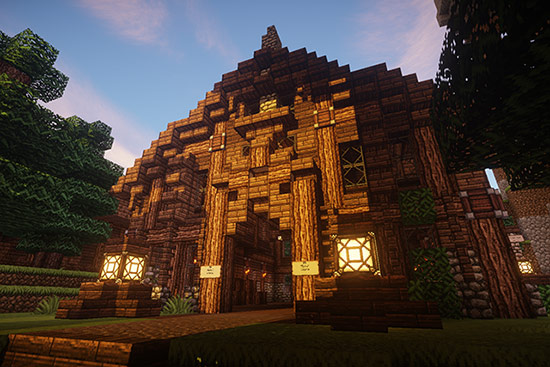
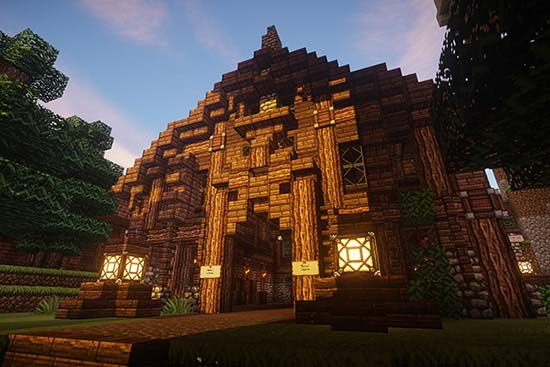
better compress our images

diff --git a/loka/templates/base.html b/loka/templates/base.html
@@ -187,22 +187,6 @@
         });
     </script>
     <script src="{% static 'js/bootstrap.min.js' %}"></script>
-{#    <script defer type="text/javascript">#}
-{#        $(document).ready(function () {#}
-{##}
-{#            if ($("#container").size() > 0) {#}
-{#                if (document.createStyleSheet) {#}
-{#                    document.createStyleSheet('style.css');#}
-{#                }#}
-{#                else {#}
-{#                    $("head").append($("<link href='{% static 'css/bootstrap.min.css' %}' rel='stylesheet' media='screen' />"));#}
-{#                    $("head").append($("<link href='{% static 'css/custom.css' %}' rel='stylesheet' media='screen' />"));#}
-{##}
-{#                }#}
-{#            }#}
-{#        });#}
-{#    </script>#}
-
 {% endcompress %}
 
 <!--[if lt IE 9]>
